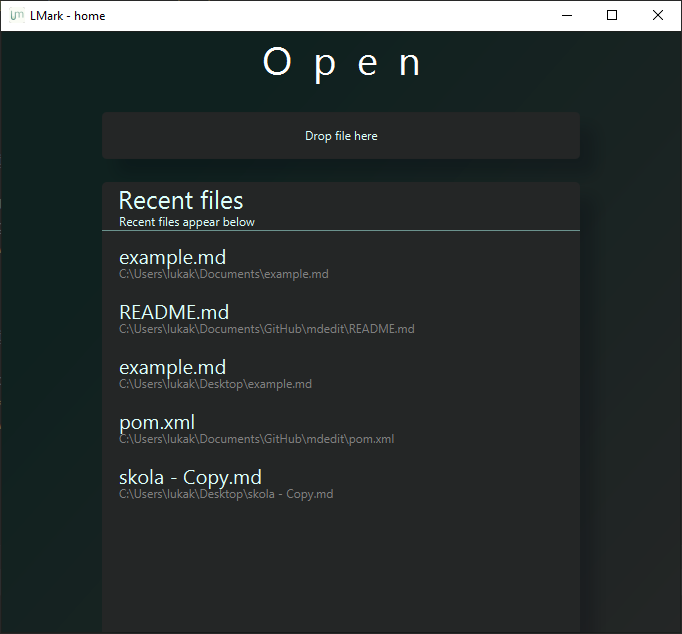
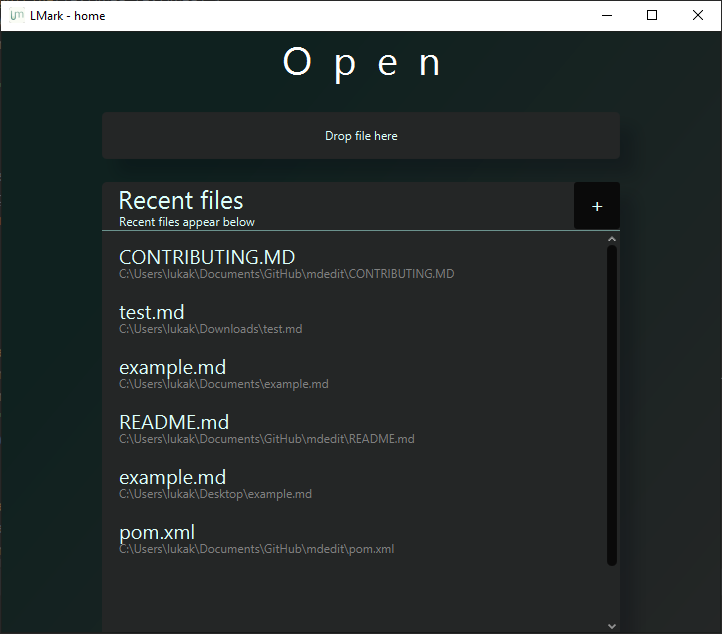
Fix `fixSelection(TextArea textArea)` going out of range and added Contributing.md

diff --git a/src/main/java/com/lukeonuke/lmark/gui/MainAppWindow.java b/src/main/java/com/lukeonuke/lmark/gui/MainAppWindow.java
@@ -546,6 +546,11 @@ public class MainAppWindow implements AppWindow {
         }
     }
 
+    private boolean selectionOutOfRange(IndexRange indexRange, int length, int offsetStart, int offsetEnd){
+        if(indexRange.getStart() + offsetStart > length) return true;
+        return indexRange.getEnd() + offsetEnd > length;
+    }
+
     private void formatItalicize(TextArea textArea, int count) {
         formatSelection(textArea, count, '*');
     }
@@ -603,6 +608,7 @@ public class MainAppWindow implements AppWindow {
 
     private void repairSelect(TextArea textArea, char character) {
         IndexRange selection = textArea.getSelection();
+        if (selectionOutOfRange(textArea.getSelection(), textArea.getLength(), -1, 1)) return;
 
         if (Objects.equals(textArea.getText(selection.getStart(), selection.getStart() + 1), String.valueOf(character))) {
             textArea.selectRange(selection.getStart() + 1, selection.getEnd());
@@ -662,9 +668,10 @@ public class MainAppWindow implements AppWindow {
     }
 
     private int getEndOfLine(TextArea textArea) {
-        String text = textArea.getText();
-        if (!text.contains("\n")) return text.length();
-        return text.indexOf('\n', getBeginningOfLine(textArea));
+        logger.info(getBeginningOfLine(textArea) + " " + textArea.getLength() + " " + textArea.getText(getBeginningOfLine(textArea), textArea.getLength()));
+        String text = textArea.getText(getBeginningOfLine(textArea), textArea.getLength());
+        if (!text.contains("\n")) return textArea.getLength();
+        return text.indexOf('\n') + getBeginningOfLine(textArea);
     }
 
     private void formatBullet(TextArea textArea, String bullet) {
@@ -783,14 +790,18 @@ public class MainAppWindow implements AppWindow {
                     job.print();
                 }
             } catch (PrinterAbortException printerAbortException) {
-                FxUtils.createAlert(Alert.AlertType.ERROR, "Printing error",
-                                "The print-job was unexpectedly aborted", printerAbortException.getMessage(), stage)
-                        .show();
+                FxUtils.lazyRunOnPlatform(() -> {
+                    FxUtils.createAlert(Alert.AlertType.ERROR, "Printing error",
+                                    "The print-job was unexpectedly aborted", printerAbortException.getMessage(), stage)
+                            .show();
+                });
             } catch (IOException | PrinterException ex) {
-                FxUtils.createAlert(Alert.AlertType.ERROR, "General printing error",
-                                "A error occurred whilst sending the document to the printer",
-                                ex.getMessage(), stage)
-                        .show();
+                FxUtils.lazyRunOnPlatform(() -> {
+                    FxUtils.createAlert(Alert.AlertType.ERROR, "General printing error",
+                                    "A error occurred whilst sending the document to the printer",
+                                    ex.getMessage(), stage)
+                            .show();
+                });
             }
             setIsWorking(false);
         }, "print-worker");

diff --git a/src/main/java/com/lukeonuke/lmark/gui/StartWindow.java b/src/main/java/com/lukeonuke/lmark/gui/StartWindow.java
@@ -118,6 +118,7 @@ public class StartWindow implements AppWindow {
         recentDescription.getStyleClass().addAll("pd-l", "bottom-border", "pd-d");
         Button openButton = FxUtils.createToolBarButton("+", "New file", actionEvent -> {
             FileChooser fileChooser = new FileChooser();
+            fileChooser.getExtensionFilters().add(new FileChooser.ExtensionFilter("Markdown", "*.md"));
             File file = fileChooser.showOpenDialog(new Stage());
             if(file == null) return;
             logger.info("Selected {} file from plus dialog", file.getPath());

diff --git a/CONTRIBUTING.MD b/CONTRIBUTING.MD
@@ -1,0 +1,16 @@
+# Contributing
+If you are reading this, ***congratulations for wanting to become a contributor***
+
+Contributing is welcome to the lmark project.
+
+You might be interested in [joining the discord ![](https://img.shields.io/discord/790676398602715208)](https://discord.gg/nkDWFbvFr9)
+
+### Here are the best practises
+- When making changes make a pull request that clearly describes what have you changed.
+
+- When posting issues, make them clear and concise with screenshots (if possible). Describe your issue. If its a bug describe how it happens and what it does.
+
+# Instructions
+***Build and run (setup)*** instructions found in `#build` section of README.md
+
+I preffer using intelij idea, and with it it should be as simple as oppening the project root directory.
